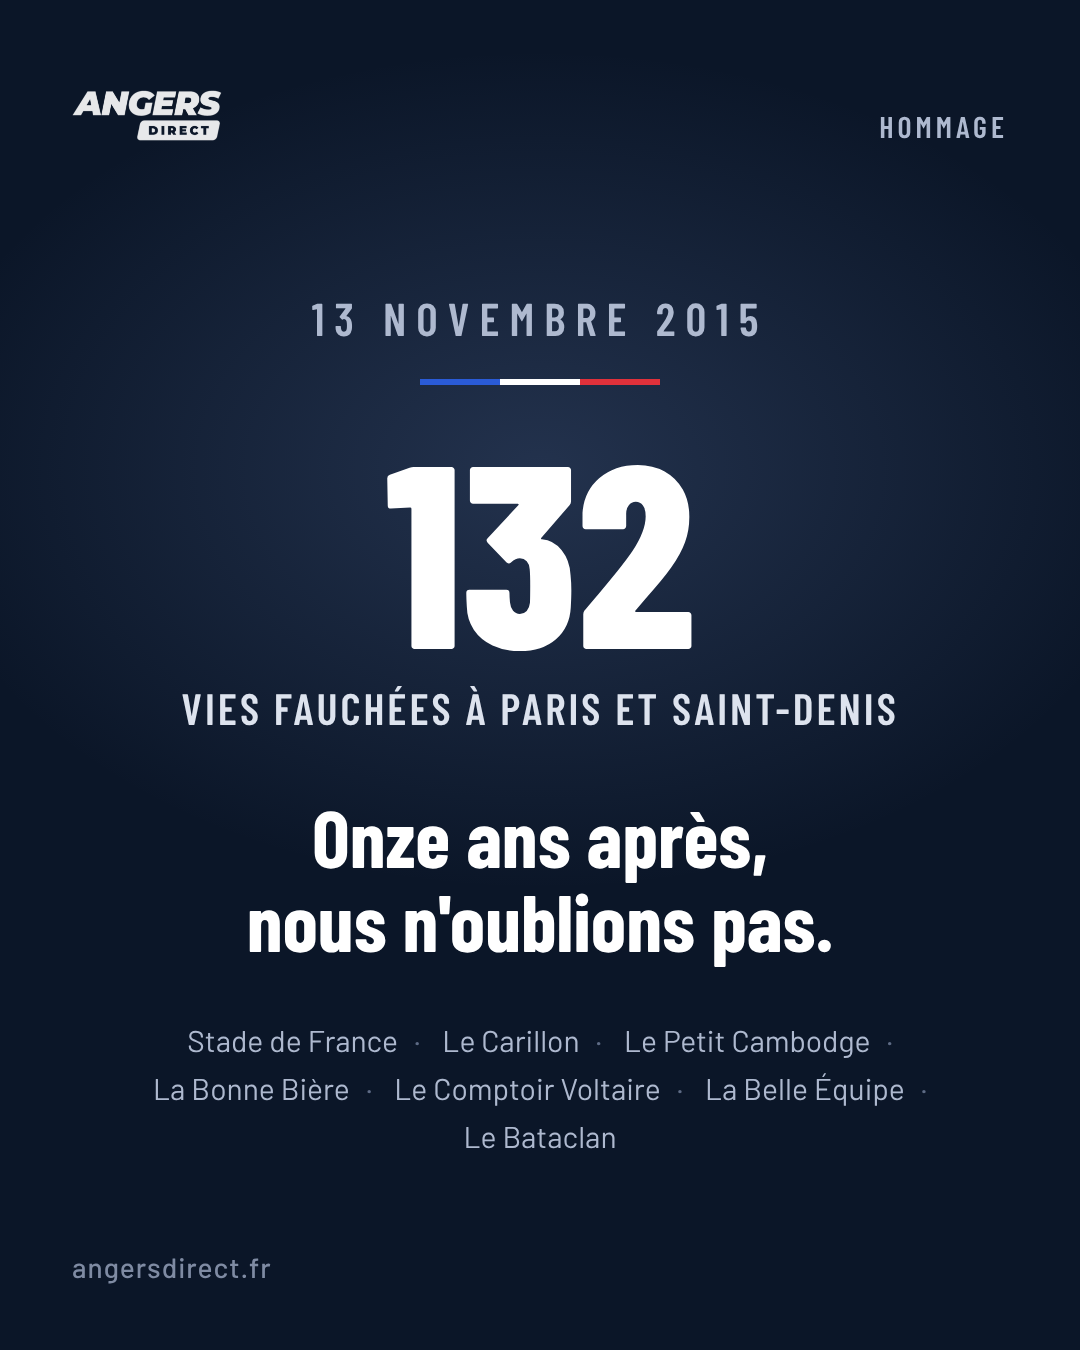
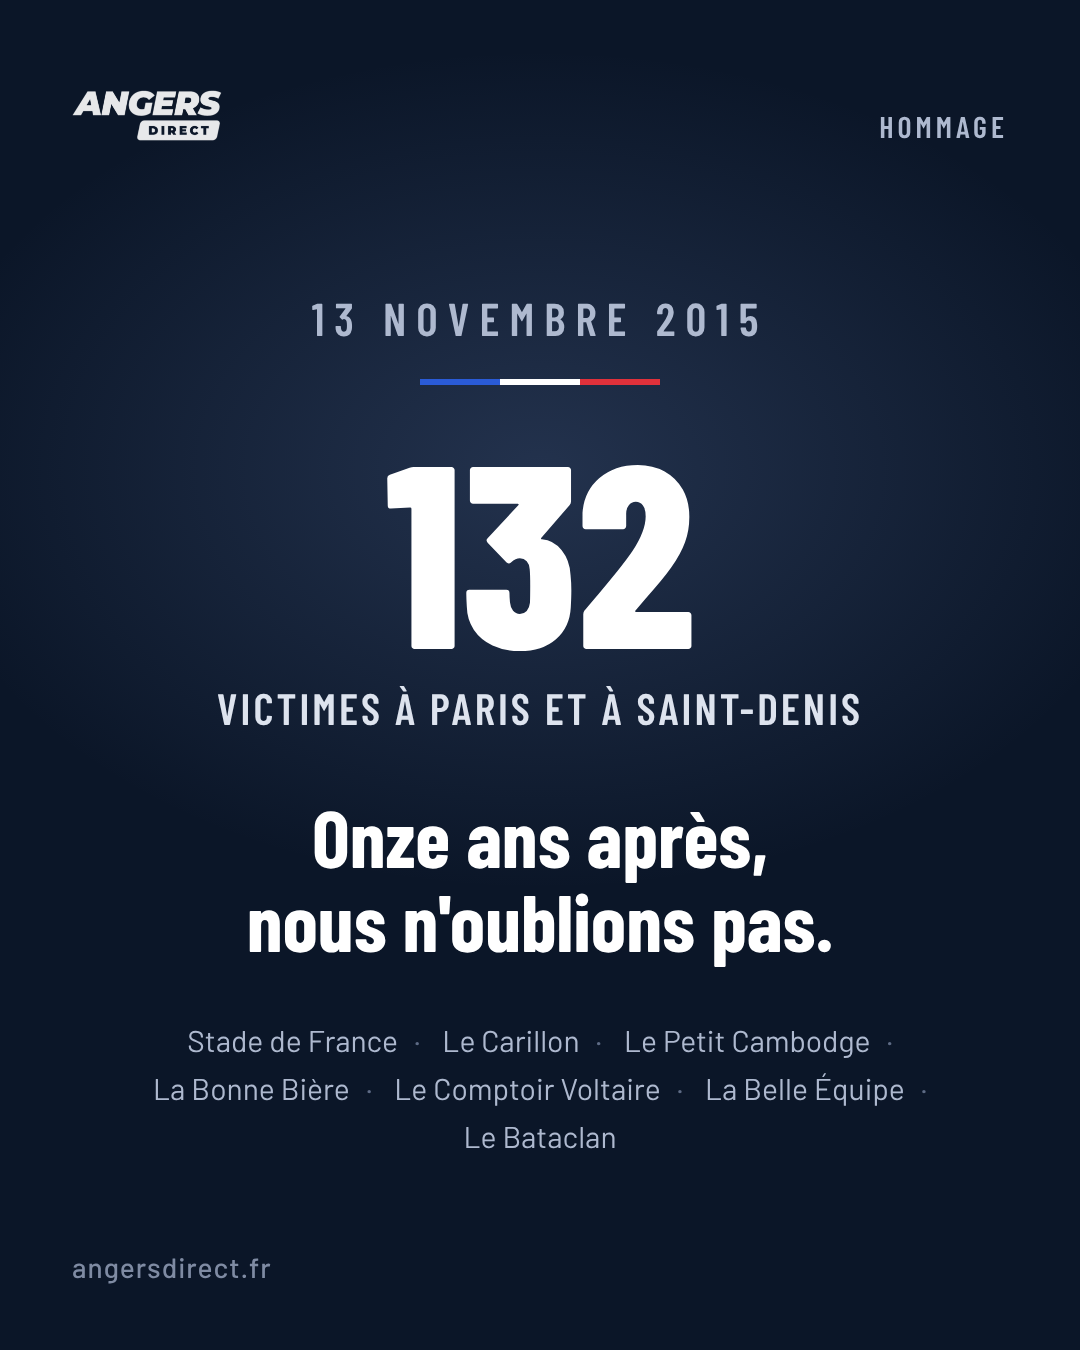
Hommage 13-Novembre : « victimes » à la place de « vies fauchées »
Claude-Session: https://claude.ai/code/session_01ShcrTsmLj7sr4Y4cq1pLG3

Changed region(s): [[0.1528, 0.4978, 0.825, 0.56]]

diff --git a/2026-11-13/hommage_13_novembre.py b/2026-11-13/hommage_13_novembre.py
@@ -25,7 +25,7 @@ background:radial-gradient(ellipse 900px 600px at 50% {top + 380}px,rgba(120,150
  <div style="display:flex;justify-content:center;gap:0;margin:34px auto 0;width:240px;height:6px">
   <div style="flex:1;background:#2A5BD7"></div><div style="flex:1;background:#FFFFFF"></div><div style="flex:1;background:#E0313B"></div></div>
  <div style="font-family:'Barlow Condensed';font-weight:800;font-size:{300 if st else 260}px;line-height:1;margin-top:{50 if st else 30}px">132</div>
- <div style="font-family:'Barlow Condensed';font-weight:600;font-size:44px;letter-spacing:3px;color:#DDE3EE;margin-top:6px">VIES FAUCHÉES À PARIS ET SAINT-DENIS</div>
+ <div style="font-family:'Barlow Condensed';font-weight:600;font-size:44px;letter-spacing:3px;color:#DDE3EE;margin-top:6px">VICTIMES À PARIS ET À SAINT-DENIS</div>
  <div style="font-family:'Barlow Condensed';font-weight:700;font-size:{88 if st else 80}px;line-height:1.05;margin-top:{90 if st else 60}px">Onze ans après,<br>nous n'oublions pas.</div>
  <div style="font-weight:400;font-size:30px;line-height:1.6;color:#AEB9CF;margin:{80 if st else 54}px auto 0;max-width:900px">{lieux}</div>
 </div>
